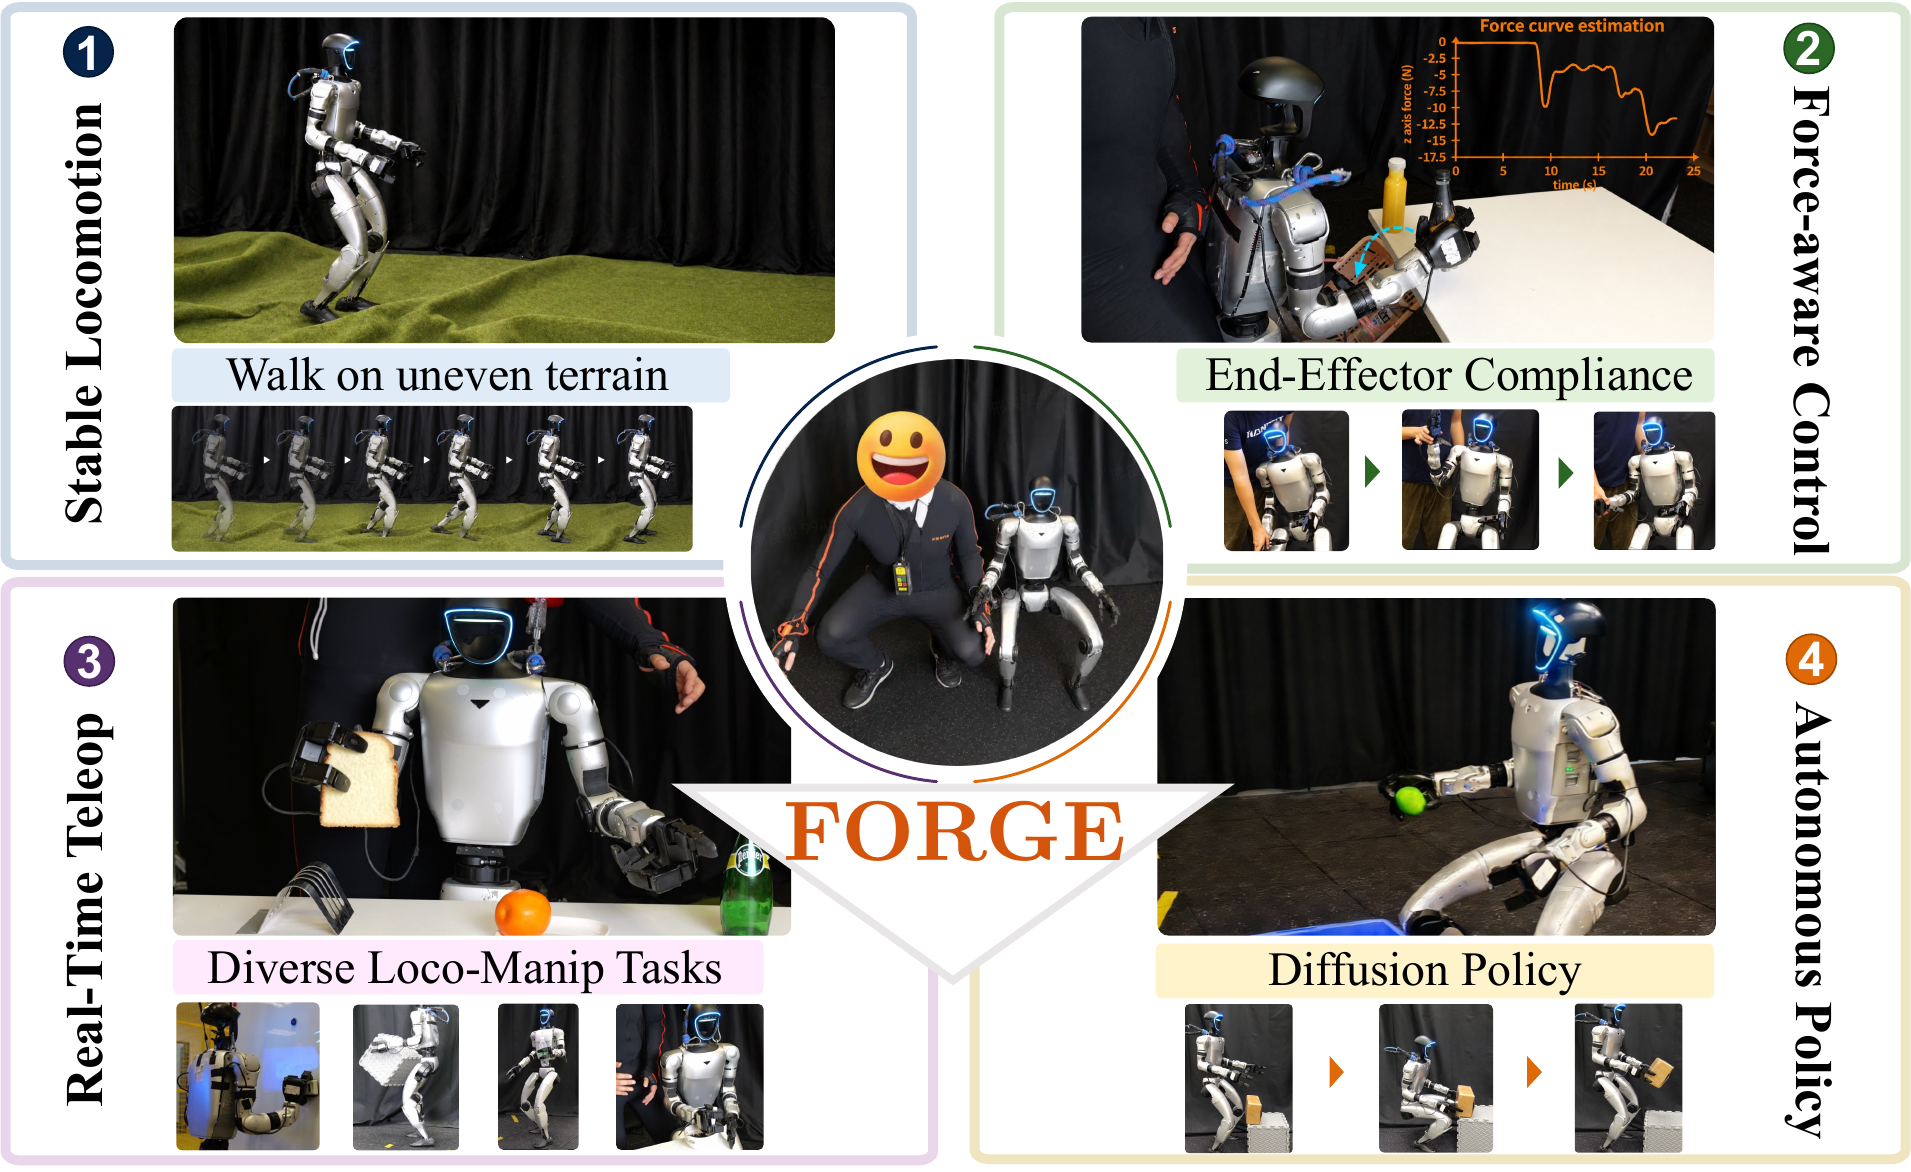
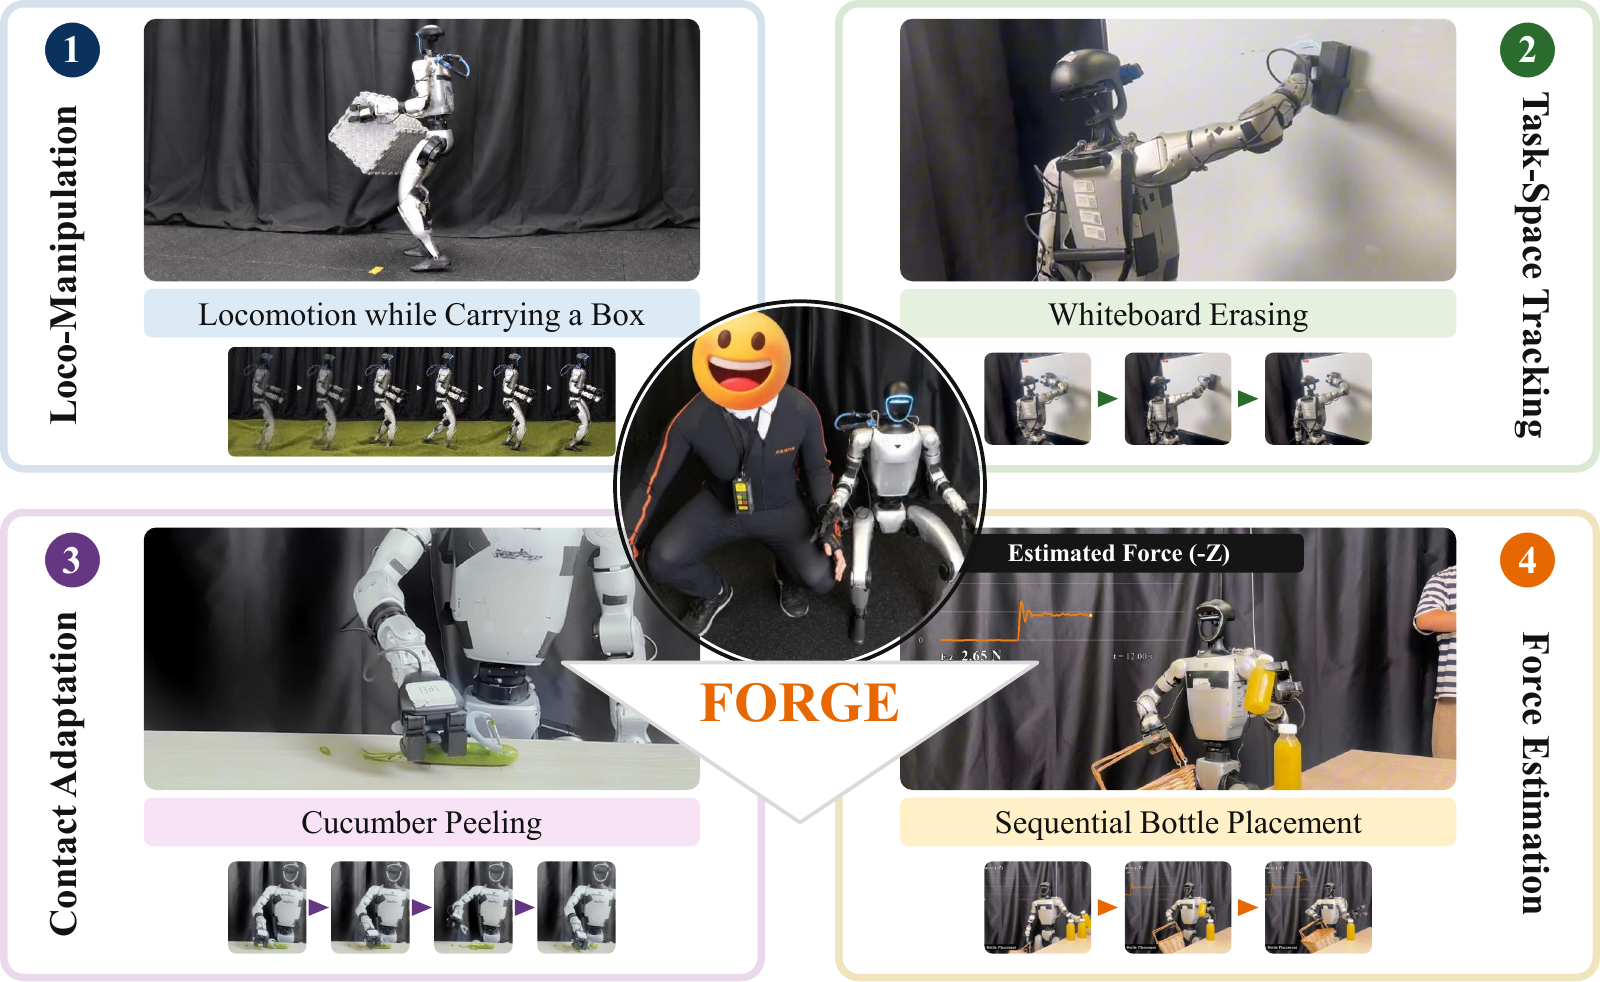
Use v12 artwork and update project page references

diff --git a/forge/index.html b/forge/index.html
@@ -17,7 +17,7 @@
     />
     <meta
       property="og:image"
-      content="https://bb0928.github.io/assets/forge/teaser.png"
+      content="https://bb0928.github.io/assets/forge/teaser_v12.png"
     />
     <meta property="og:type" content="website" />
     <meta property="og:url" content="https://bb0928.github.io/forge/" />
@@ -70,15 +70,15 @@
         <figure class="paper-teaser">
           <a
             class="figure-link"
-            href="/assets/forge/teaser.png"
+            href="/assets/forge/teaser_v12.png"
             target="_blank"
             rel="noopener noreferrer"
           >
             <img
-              src="/assets/forge/teaser.png"
-              alt="FORGE system overview: locomotion, force-aware control, teleoperation, and a downstream policy example"
-              width="1911"
-              height="1172"
+              src="/assets/forge/teaser_v12.png"
+              alt="FORGE system overview: loco-manipulation, task-space tracking, contact adaptation, and force estimation"
+              width="1600"
+              height="982"
               fetchpriority="high"
             />
           </a>
